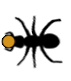
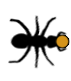
Worked out how to rotate the direction of ants when they are being drawn!  (Currently in the draw ant test method).
Also, added scroll bars to the contest window so an unlimited number of players can enter.

Changed region(s): [[0.0, 0.1728, 0.9859, 0.8395]]

diff --git a/src/gUI/CopyOfGameDisplay.java b/src/gUI/CopyOfGameDisplay.java
@@ -30,11 +30,11 @@ public class CopyOfGameDisplay extends PApplet {
 	
 	public enum AntDirection {
 		EAST(0), 
-		SOUTH_EAST(5 * PI / 3), 
-		SOUTH_WEST(4 * PI / 3), 
+		SOUTH_EAST(PI / 3), 
+		SOUTH_WEST(2 * PI / 3), 
 		WEST(PI), 
-		NORTH_WEST(2 * PI / 3), 
-		NORTH_EAST(PI / 3);
+		NORTH_WEST(4 * PI / 3), 
+		NORTH_EAST(5 * PI / 3);
 
 		private final float direction;
 		
@@ -207,7 +207,9 @@ public class CopyOfGameDisplay extends PApplet {
 			tile = grassTileSmall;
 		}
 		
+		
 		background(255, 204, 0);
+		
 		//Draw hexagons
 		for (int row = 0; row < numHexRow; row++) {
 			for (int col = 0; col < numHexCol; col++) {
@@ -219,9 +221,9 @@ public class CopyOfGameDisplay extends PApplet {
 			    }
 			}
 		}
-		
-		createAnt(1, 10, 0);
 
+		drawAnt(25, 15, 0);
+		
 		//for (int row = 1; row <= numHexRow; row++) {
 		//	for (int col = 1; col <= numHexCol; col++) {
 		//		createAnt(row, col, 0);
@@ -297,19 +299,16 @@ public class CopyOfGameDisplay extends PApplet {
 		return pixelCol;
 	}
 	
-	//Test method
-	public void createAnt(int row, int col, int colour) {
+	public void drawAnt(int row, int col, int colour) {
 		if (colour == 0) {
-			//TODO: THIS!
+			//push and pop matrices so no further draws are affected by transforms below
 			pushMatrix();
-			translate(-getColPixelCoords(col, row), -getRowPixelCoords(row));
-			
-			rotate(AntDirection.NORTH_EAST.direction());
-			image(blackAnt, getColPixelCoords(col, row), getRowPixelCoords(row), hexWidth, hexHeight);
-			//translate(getColPixelCoords(col, row), getRowPixelCoords(row));
-			
-			//draw image
-			
+			//Translate the coords system so 0,0 is the centre of the tile where the ant should be drawn
+			translate((getColPixelCoords(col, row) + hexWidth / 2), (getRowPixelCoords(row) + hexVertHeight));
+			//Rotate the coords system so that the and is drawn in the correct direction relative to the hexagon grid
+			rotate(AntDirection.SOUTH_EAST.direction());
+			//Draw the image at an offset so that the origin is back to the top left of the tile.
+			image(blackAnt, -(hexWidth / 2), -hexVertHeight, hexWidth, hexHeight);
 			popMatrix();
 		}
 	}

diff --git a/src/gUI/ContestWindow.java b/src/gUI/ContestWindow.java
@@ -50,7 +50,7 @@ public class ContestWindow {
 		//upload a brain, and show the wins and losses for that brain
 		JPanel brainUploadPanel = new JPanel();
 		brainUploadPanel.setLayout(new GridLayout(numOfPlayers + 1, 5, 10, 10));
-		
+
 		//Labels that are the column headings
 		JLabel blankLbl1 = new JLabel("");
 		JLabel blankLbl2 = new JLabel("");
@@ -87,7 +87,19 @@ public class ContestWindow {
 			brainUploadPanel.add(lossesLbls[i]);
 		}
 		
-		pane.add(brainUploadPanel, BorderLayout.NORTH);
+		JScrollPane scrollPanel = new JScrollPane(brainUploadPanel);
+		//Only add scroll bars by limiting the preferred size of the scroll panel if the number 
+		//of players is above 7 (the amount that fits into 300 pixels).
+		if (numOfPlayers > 7) {
+			scrollPanel.setPreferredSize(new Dimension(500, 300));
+		}
+		else {
+			//If there won't be scrolling, remove the border of the scroll panel
+			scrollPanel.setBorder(null);
+		}
+		scrollPanel.setHorizontalScrollBarPolicy(JScrollPane.HORIZONTAL_SCROLLBAR_NEVER);
+		scrollPanel.setVerticalScrollBarPolicy(JScrollPane.VERTICAL_SCROLLBAR_AS_NEEDED);
+		pane.add(scrollPanel, BorderLayout.NORTH);
 		
 		//Panel to add button to display statistics and cancel at the bottom
 		JPanel showStatsPanel = new JPanel();
